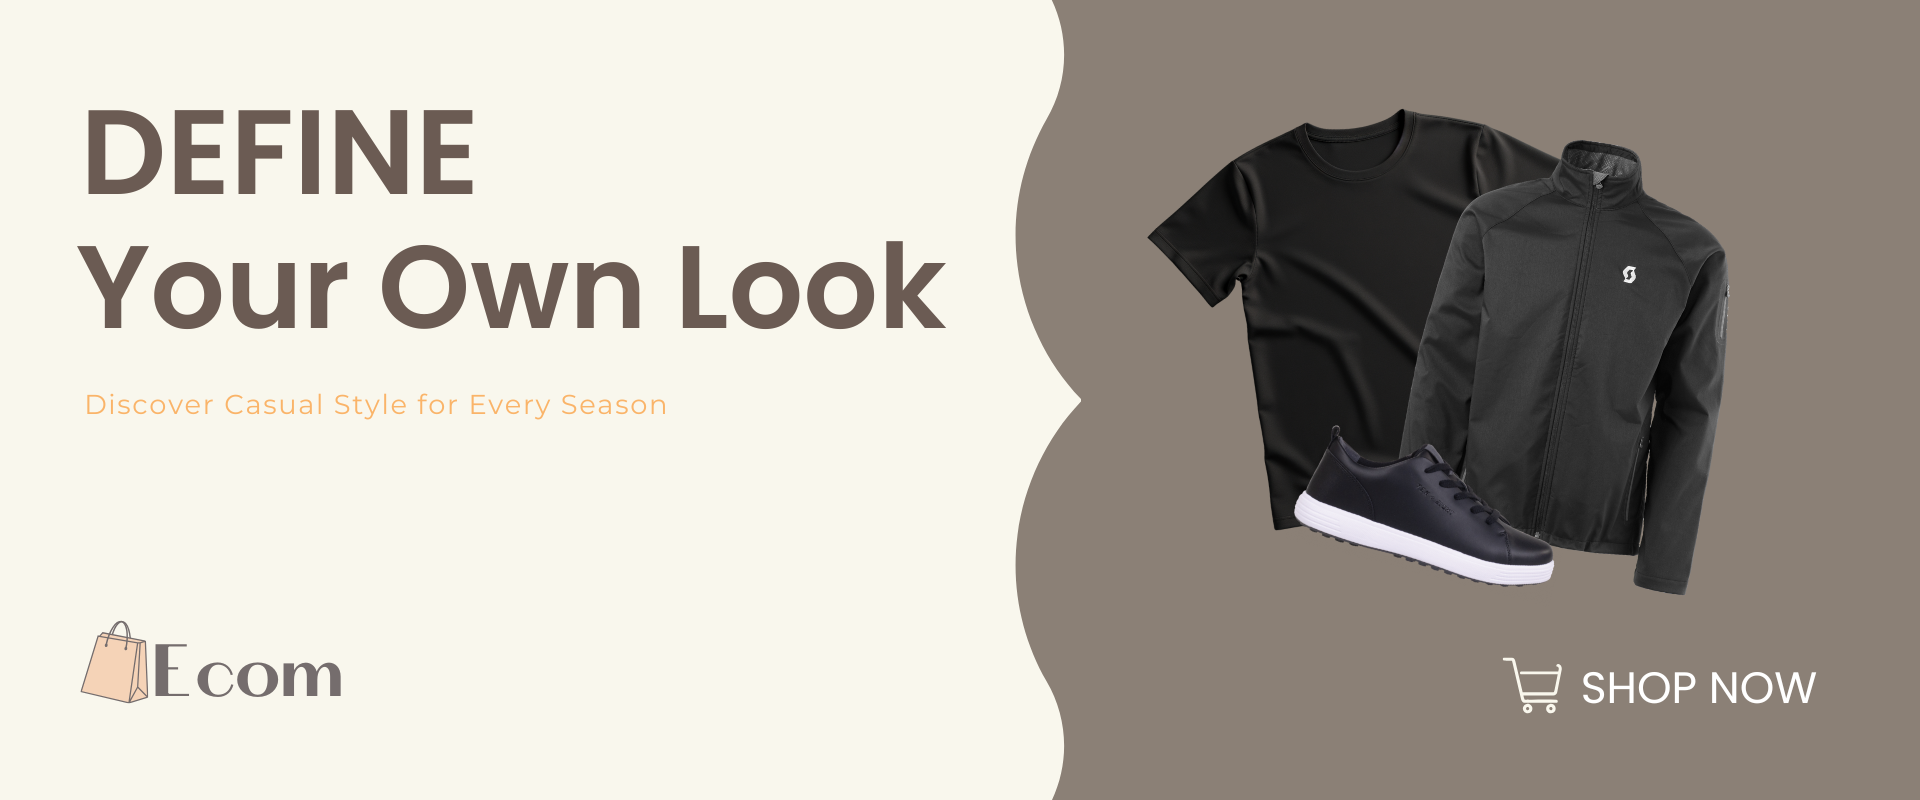
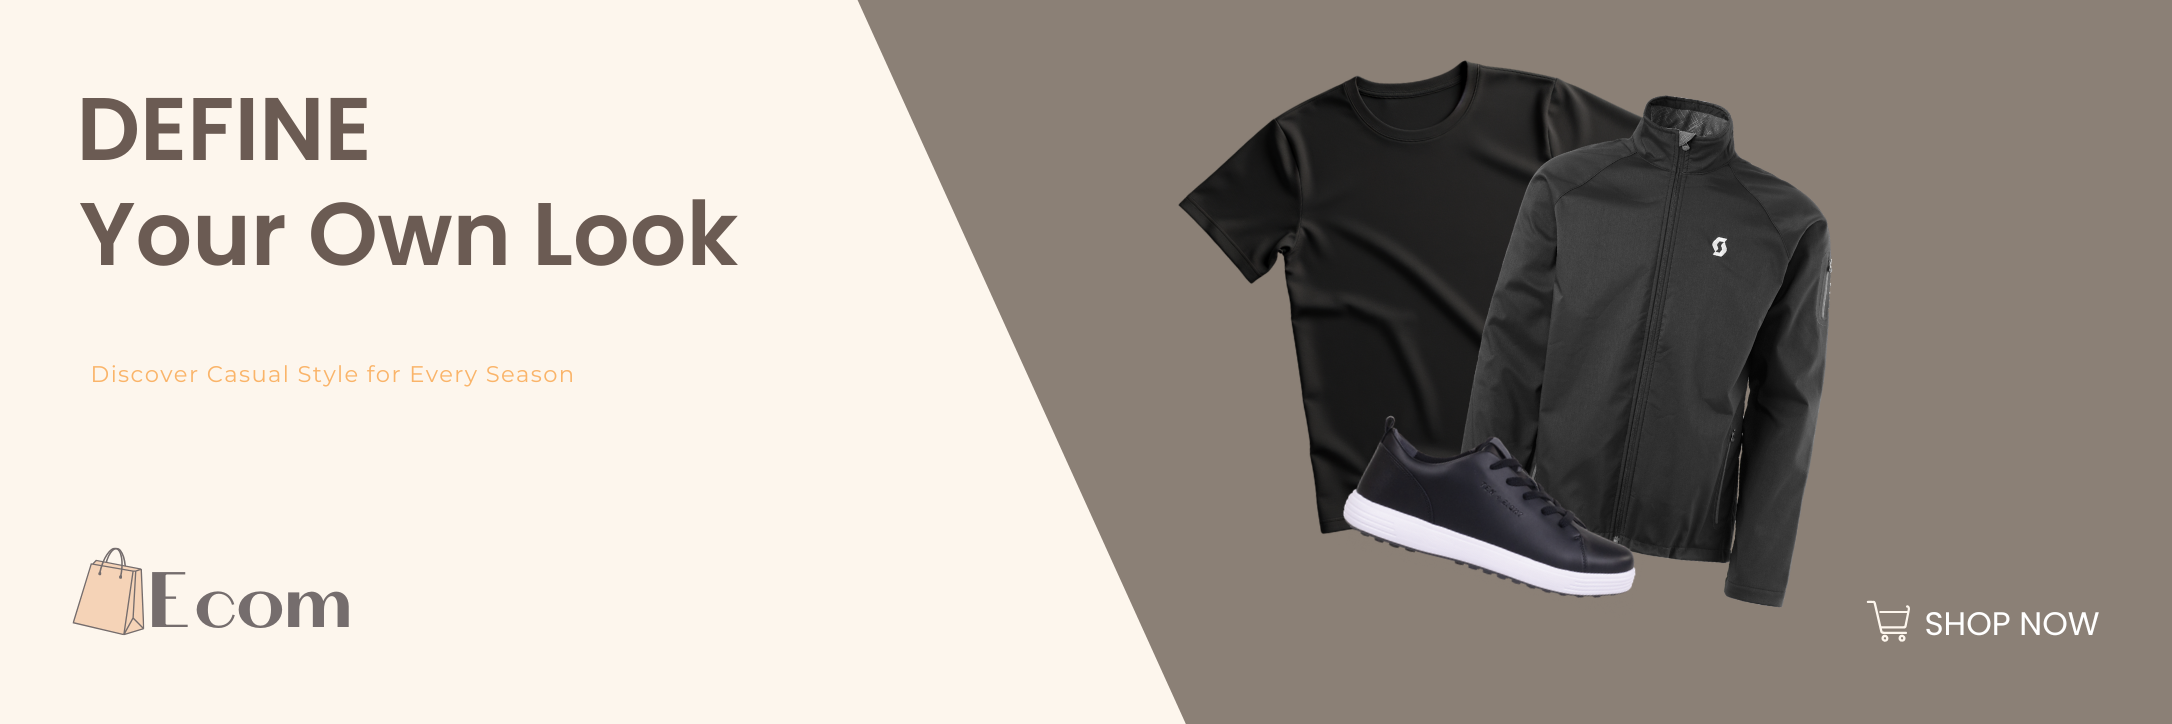
fix: preview img issue fixed

diff --git a/client/src/app/page.tsx b/client/src/app/page.tsx
@@ -10,9 +10,23 @@ const Homepage = async ({
 
   return (
     <div className="">
-      <div className="relative aspect-3/1 mb-8">
-        <Image src={"/feat.png"} alt={"Featured Product"} fill></Image>
+      <div className="relative w-full aspect-3/1 mb-8">
+        <Image
+          src={"/feat.png"}
+          alt={"Featured Product"}
+          fill
+          priority
+          sizes="100vw"
+        />
       </div>
+      {/* <div className="relative aspect-1920/800 mb-8">
+        <Image
+          src="/feat.png"
+          alt="Featured Product"
+          fill
+          className="object-cover"
+        />
+      </div> */}
       <ProductList category={category} params={"homepage"} />
     </div>
   );
